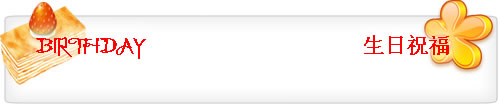
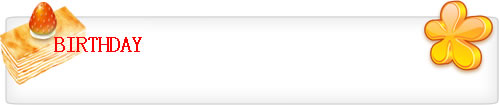
robbin

diff --git a/css/server_index.css b/css/server_index.css
@@ -32,7 +32,9 @@ body {margin:0px; font-family:宋体; font-size:12px; line-height:0px; color:#00
 #t_l_b_r_b .t_l_b_r_b_content{width:170px; height:22px; line-height:22px; overflow:hidden; float:left; display:inline;}
 #t_l_b_r_b .t_l_b_r_b_content a{margin-left:5px; color:#666666; text-decoration:none;}
 #t_r_t{width:498px; height:121px; background:url('/images/server/index_t_r_t.jpg') no-repeat; float:right; display:inline;}
-#t_r_t #brithday{width:438px; height:23px; margin-top:60px; margin-left:30px; line-height:23px; background:#EAEAEA; filter:alpha(opacity=50); -moz-opacity:0.5; opacity:0.5;float:left; display:inline;}
+#t_r_t #sr{width:100px; height:22px; line-height:22px; margin-top:35px; margin-right:40px; float:right; display:inline;}
+#t_r_t #sr a{font-size:22px; color:#FF0000; font-weight:bold; text-decoration:none;}
+#t_r_t #brithday{width:438px; height:23px; margin-top:5px; margin-left:29px; line-height:23px; background:#EAEAEA; filter:alpha(opacity=50); -moz-opacity:0.5; opacity:0.5;float:left; display:inline;}
 #t_r_m{width:493px; height:262px;  background:url('/images/server/index_t_r_m.jpg') no-repeat; float:right; display:inline;}
 #t_r_m #title{width:78px; heihgt:18px; margin-left:55px; margin-top:5px; font-weight:bold; color:#ffffff; font-size:14px; line-height:18px; float:left; display:inline;}
 #t_r_m #bottom{width:493px; margin-top:10px; float:left; display:inline;}
@@ -56,8 +58,8 @@ body {margin:0px; font-family:宋体; font-size:12px; line-height:0px; color:#00
 #t_r_answer{width:493px; height:141px; margin-top:9px; background:url('/images/server/index_t_r_answer.jpg') no-repeat; float:right; display:inline;}
 #t_r_answer_t{width:470px; height:53px; margin-top:10px; margin-left:10px; float:left; display:inline;}
 #t_r_answer_t #pic{width:36px; height:53px; float:left; display:inline;}
-#t_r_answer_t #content{width:360px; height:53px; float:left; display:inline;}
-#t_r_answer_t #content #title{widht:360px; height:53px; color:#0000FF; font-size:16px; line-height:20px; float:left; display:inline;}
+#t_r_answer_t #content{width:300px; height:53px; float:left; display:inline;}
+#t_r_answer_t #content #title{widht:300px; height:53px; margin-left:30px; color:#0000FF; font-size:16px; line-height:20px; text-align:center; float:left; display:inline;}
 #t_r_answer_t #dt{widht:67px; height:27px; margin-top:13px; float:right; display:inline;}
 #t_r_answer_b{width:479px; height:73px; margin-left:7px; background:url('/images/server/index_r_answer_b.jpg') no-repeat; float:left; display:inline;}
 #t_r_answer_b #t_r_answer_b_l{width:360px; height:51px; margin-top:10px; margin-left:10px; float:left; display:inline;}
@@ -75,9 +77,16 @@ body {margin:0px; font-family:宋体; font-size:12px; line-height:0px; color:#00
 #b_l #b_l_b .content .context{width:150px; height:113px; line-height:18px; overflow:hidden; float:right; display:inline;}
 #b_l #b_l_b_r{width:78px; height:78px; margin-top:40px; margin-left:20px; float:left; display:inline;}
 #b_r{width:331px; height:275px; margin-top:14px; background:url('/images/server/index_b_r.jpg') no-repeat; float:right; display:inline;}
-#b_r #left{width:180px; margin-top:20px; float:left; display:inline;}
-#b_r #left #tp{width:70px; height:25px;  margin-left:58px; padding-top:14px; padding-left:10px; background:url('/images/server/index_tp_bg.jpg') no-repeat; line-height:24px; font-size:14px; color:#ffffff; font-weight:bold; text-align:center; float:left; display:inline;}
-#b_r #left #vote{width:160px; margin-top:10px; margin-left:20px; line-height:20px; float:left; display:inline;}
-#b_r #right{width:120px; height:246px; margin-top:20px; margin-right:10px; overflow:hidden; float:right; display:inline;}
-#b_r #right .content{width:120px; height:20px; line-height:20px; overflow:hidden; float:left; display:inline;}
-#b_r #right .content a{color:#000000; text-decoration:none;}
+#b_r #top{width:330px; float:left; display:inline;}
+#b_r #tp{width:70px; height:25px;  margin-left:10px; margin-bottom:5px; padding-top:14px; padding-left:10px; background:url('/images/server/index_tp_bg.gif') no-repeat; line-height:24px; font-size:14px; color:#ffffff; font-weight:bold; text-align:center; float:left; display:inline;}
+#b_r #top .vote{width:150px; height:20px; margin-left:10px; line-height:20px; overflow:hidden; float:left; display:inline;}
+#b_r #top .vote .pic{width:21px; height:20px; float:left; display:inline;}
+#b_r #top .vote .lj{width:125px; height:20px; overflow:hidden; float:right; display:inline;}
+#b_r #top .vote .lj a{color:#000000; text-decoration:none;}
+#b_r #bottom{width:330px; margin-top:5px; overflow:hidden; float:right; display:inline;}
+#b_r #bottom #left{width:150px; margin-left:10px; line-height:20px; overflow:hidden; float:left; display:inline;}
+#b_r #bottom #right{width:160px; float:left; display:inline;} 
+#b_r #bottom #right #r_top{width:95px; height:33px; float:right; display:inline;}
+#b_r #bottom #right .cl{width:83px; height:23px; margin-top:10px; line-height:23px; text-align:center; background:url('/images/server/index_r_b_button.jpg') no-repeat; float:left; display:inline;}
+#b_r #bottom #right .cl a{width:83px; height:23px; color:#ffffff; text-decoration:none;}
+#b_r #bottom #right #r_bottom{width:95px; height:33px; line-height:33px; margin-top:10px; float:left; display:inline;}

diff --git a/javascript/news.js b/javascript/news.js
@@ -3,8 +3,7 @@
 		$.post('/news/news_update.post.php',{'newsid':$("#newsid").attr('value')},function(data){
 				
 			}
-		)
-		
+		)	
 		
 		$(".show_vote").click(function(){
 			var vote_id=$(this).prev().prev().attr("value");

diff --git a/server/index.php b/server/index.php
@@ -28,14 +28,14 @@
 			$bz=$db->query('select * from smg_shopdp where id not in ('.$bt1.') limit '.$bznum);
 		}
 		$gj=$db->query('SELECT s.id,s.title,s.last_edited_at,s.platform,d.name FROM smg_news s inner join smg_category c on s.category_id=c.id and c.name="番茄工具" and c.category_type="news" inner join smg_dept d on s.dept_id=d.id order by s.priority asc, s.last_edited_at desc limit 9');
-		$nbxx=$db->query('SELECT s.id,s.platform,s.photo_src,s.short_title,c.name FROM smg_news s inner join smg_category c on s.category_id=c.id and c.name="内部信息" and c.category_type="news" order by s.priority asc,s.last_edited_at desc limit 2');
-  		$yczh=$db->query('SELECT s.id,s.platform,s.photo_src,s.short_title,c.name FROM smg_news s inner join smg_category c on s.category_id=c.id and c.name="演出展会" and c.category_type="news" order by s.priority asc,s.last_edited_at desc limit 2');
-  		$xptj=$db->query('SELECT s.id,s.platform,s.photo_src,s.short_title,c.name FROM smg_news s inner join smg_category c on s.category_id=c.id and c.name="新片推荐" and c.category_type="news" order by s.priority asc,s.last_edited_at desc limit 2');
-		$msys=$db->query('SELECT s.id,s.platform,s.photo_src,s.short_title,c.name FROM smg_news s inner join smg_category c on s.category_id=c.id and c.name="美食养生" and c.category_type="news" order by s.priority asc,s.last_edited_at desc limit 2');
-		$gwmd=$db->query('SELECT s.id,s.platform,s.photo_src,s.short_title,c.name FROM smg_news s inner join smg_category c on s.category_id=c.id and c.name="购物摩登" and c.category_type="news" order by s.priority asc,s.last_edited_at desc limit 2');
-		$tyyl=$db->query('SELECT s.id,s.platform,s.photo_src,s.short_title,c.name FROM smg_news s inner join smg_category c on s.category_id=c.id and c.name="体育娱乐" and c.category_type="news" order by s.priority asc,s.last_edited_at desc limit 2');
+		$nbxx=$db->query('SELECT s.id,c.platform,s.photo_src,s.short_title,c.name FROM smg_news s inner join smg_category c on s.category_id=c.id and c.name="内部信息" and c.category_type="news" order by s.priority asc,s.last_edited_at desc limit 2');
+  		$yczh=$db->query('SELECT s.id,c.platform,s.photo_src,s.short_title,c.name FROM smg_news s inner join smg_category c on s.category_id=c.id and c.name="演出展会" and c.category_type="news" order by s.priority asc,s.last_edited_at desc limit 2');
+  		$xptj=$db->query('SELECT s.id,c.platform,s.photo_src,s.short_title,c.name FROM smg_news s inner join smg_category c on s.category_id=c.id and c.name="新片推荐" and c.category_type="news" order by s.priority asc,s.last_edited_at desc limit 2');
+		$msys=$db->query('SELECT s.id,c.platform,s.photo_src,s.short_title,c.name FROM smg_news s inner join smg_category c on s.category_id=c.id and c.name="美食养生" and c.category_type="news" order by s.priority asc,s.last_edited_at desc limit 2');
+		$gwmd=$db->query('SELECT s.id,c.platform,s.photo_src,s.short_title,c.name FROM smg_news s inner join smg_category c on s.category_id=c.id and c.name="购物摩登" and c.category_type="news" order by s.priority asc,s.last_edited_at desc limit 2');
+		$tyyl=$db->query('SELECT s.id,c.platform,s.photo_src,s.short_title,c.name FROM smg_news s inner join smg_category c on s.category_id=c.id and c.name="体育娱乐" and c.category_type="news" order by s.priority asc,s.last_edited_at desc limit 2');
 		$tk=$db->query('select id,name from smg_problem order by create_time desc limit 7');
-		$tp=$db->query('SELECT * FROM smg_vote s where vote_type<>"more_type" and vote_type<>"image_vote" and is_sub_vote=0 order by created_at desc');
+		$tp=$db->query('SELECT id,name FROM smg_vote s order by created_at desc limit 12');
 		$man=$db->query('select name,birthday,height,education,photo,school from smg_marry where sex="man" order by id desc limit 5');
 		$woman=$db->query('select name,birthday,height,education,photo,school from smg_marry where sex="woman" order by id desc limit 5');
   ?>
@@ -55,7 +55,7 @@
 				for ($i=0;$i<5;$i++)
 				{
 					$picsurl10[]=$pics[$i]->src;
-					$picslink10[]=$pics[$i]->url;
+					$picslink10[]='/fqtg/fqtglist.php';
 					$picstext10[]=$pics[$i]->title;
 				}
 				?>
@@ -88,11 +88,11 @@
 				</script>
 			</div>
 			<div id=t_l_t_r>
-				<a target="_blank" href="<?php echo $pics[5]->url;?>"><img src="<?php echo $pics[5]->src;?>"></a>
+				<a target="_blank" href="/fqtg/fqtglist.php"><img src="<?php echo $pics[5]->src;?>"></a>
 				<?php for($i=0;$i<4;$i++){?>
 					<div class="content">·<a target="_blank" href="/fqtg/fqtg.php?id=<?php echo $tg[$i]->id;?>"><?php echo $tg[$i]->title; ?></a></div>
 				<?php } ?>
-				<a target="_blank" href="<?php echo $pics[6]->url;?>"><img src="<?php echo $pics[6]->src;?>"></a>
+				<a target="_blank" href="/fqtg/fqtglist.php"><img src="<?php echo $pics[6]->src;?>"></a>
 			</div>
 			<div id="gd">
 				<MARQUEE scrollAmount=1 scrollDelay=10 behavior=scroll width="100%" height="20" style="line-height:20px;">
@@ -167,6 +167,7 @@
 			</div>
 		</div>
 		<div id=t_r_t>
+			<div id="sr"><a target="_blank" href="/server/today.php">生日祝福</a></div>
 			<div id=brithday>
 				<MARQUEE scrollAmount=1 scrollDelay=60 behavior=scroll  width="100%" style="line-height:24px;">
 					<?php
@@ -358,19 +359,21 @@
 			</div>
 		</div>
 		<div id=b_r>
-			<div id=left>
 				<div id="tp">投票</div>
-				<div id=vote>
-					<?php $vote = new smg_vote_class();
-					$vote->find($tp[0]->id);
-					$vote->display(array("target"=>"_blank"));?>
+				<div id=top>
+					<?php for($i=0;$i<count($tp);$i++){?>
+					<div class=vote>
+						<div class="pic"><img border=0 src="/images/server/index_vote_pic.gif"></div><div class="lj"><a target="_blank" href="/vote/vote.php?vote_id=<?php echo $tp[$i]->id;?>"><?php echo $tp[$i]->name;?></a></div>
+					</div>
+					<?php }?>
 				</div>
-			</div>
-			<div id=right>
-				<?php for($i=0;$i<count($tp);$i++){?>
-					<div class=content>·<a target="_blank" href="/vote/vote.php"><?php echo delhtml($tp[$i]->name);?></a></div>
-				<?php } ?>
-			</div>
+				<div id=bottom>
+					<div id=left><img border=0 src="/images/server/index_r_b_b.jpg"></div>
+					<div id=right>
+						<div id=r_top><div class="cl"><a target="_blank" href="/vote/vote_list.php">最新投票</a></div></div>
+						<div id=r_bottom><div class="cl"><a target="_blank" href="/vote/beginvote.php">发起投票</a></div></div>
+					</div>
+				</div>
 		</div>
 	</div>
 </div>

diff --git a/news/news_head.php b/news/news_head.php
@@ -19,8 +19,7 @@
 		$record=$db->query($sql);	
 		$about = array();
 		if($record[0]->related_news!="")
-		{
-			
+		{	
 			$about1=search_newsid($id,$record[0]->related_news,"smg_news",10,"n.priority asc,last_edited_at desc");
 			$about = $about1;
 			if(count($about1)<10)
@@ -61,7 +60,7 @@
 		</div>
 		<div id=l_b>
 			<div id=title><?php echo delhtml($record[0]->title);?></div>
-			<div id=comefrom>来源：<?php echo $record[0]->deptname;?>　<?php if($record[0]->publisher_id!=""){?>作者：<?php echo $record[0]->publisher_id;} ?>　浏览次数：<span style="color:#C2130E"><?php echo $record[0]->click_count;?></span>　时间：<?php echo $record[0]->last_edited_at;?></div>
+			<div id=comefrom>来源：<?php echo $record[0]->deptname;?>　<?php if($record[0]->publisher_id!=""&&$record[0]->categoryname=="我要报料"){?>作者：<?php echo $record[0]->publisher_id;} ?>　浏览次数：<span style="color:#C2130E"><?php echo $record[0]->click_count;?></span>　时间：<?php echo $record[0]->last_edited_at;?></div>
 			<?php if($record[0]->video_src!=""){
 					if($record[0]->low_quality==0){
 				?>

diff --git a/news/news.php b/news/news.php
@@ -59,7 +59,7 @@
 		<div id=l_b>
 			<input type="hidden" id="user_id" value="<?php echo $cookie;?>">
 			<div id=title><?php echo delhtml($record[0]->title);?></div>
-			<div id=comefrom>来源：<?php echo $record[0]->deptname;?>　<?php if($record[0]->publisher_id!=""){?>作者：<?php echo $record[0]->publisher_id;} ?>　浏览次数：<span style="color:#C2130E"><?php echo $record[0]->click_count;?></span>　时间：<?php echo $record[0]->last_edited_at;?></div>
+			<div id=comefrom>来源：<?php echo $record[0]->deptname;?>　<?php if($record[0]->publisher_id!=""&&$record[0]->categoryname=="我要报料"){?>作者：<?php echo $record[0]->publisher_id;} ?>　浏览次数：<span style="color:#C2130E"><?php echo $record[0]->click_count;?></span>　时间：<?php echo $record[0]->last_edited_at;?></div>
 			<?php if($record[0]->video_src!=""){
 					if($record[0]->low_quality==0){
 				?>
